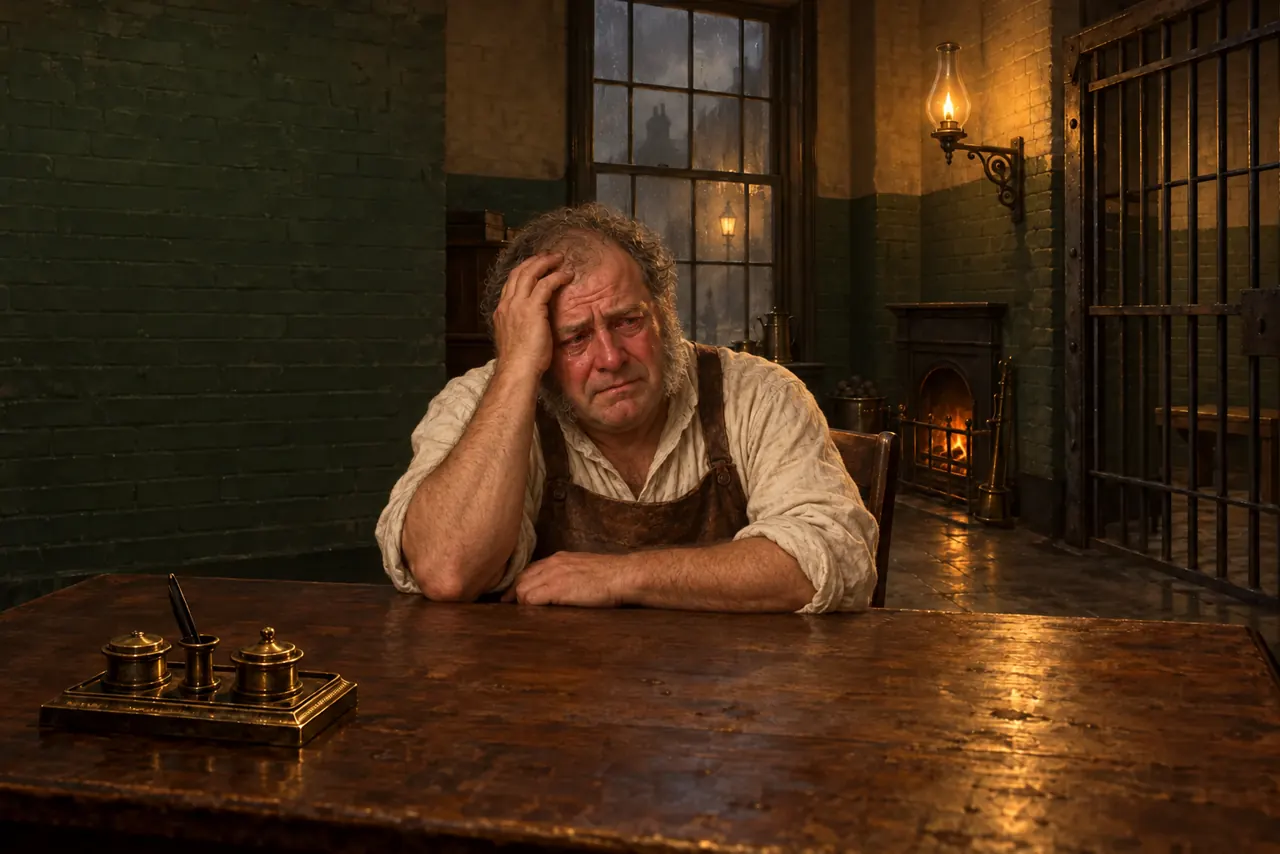
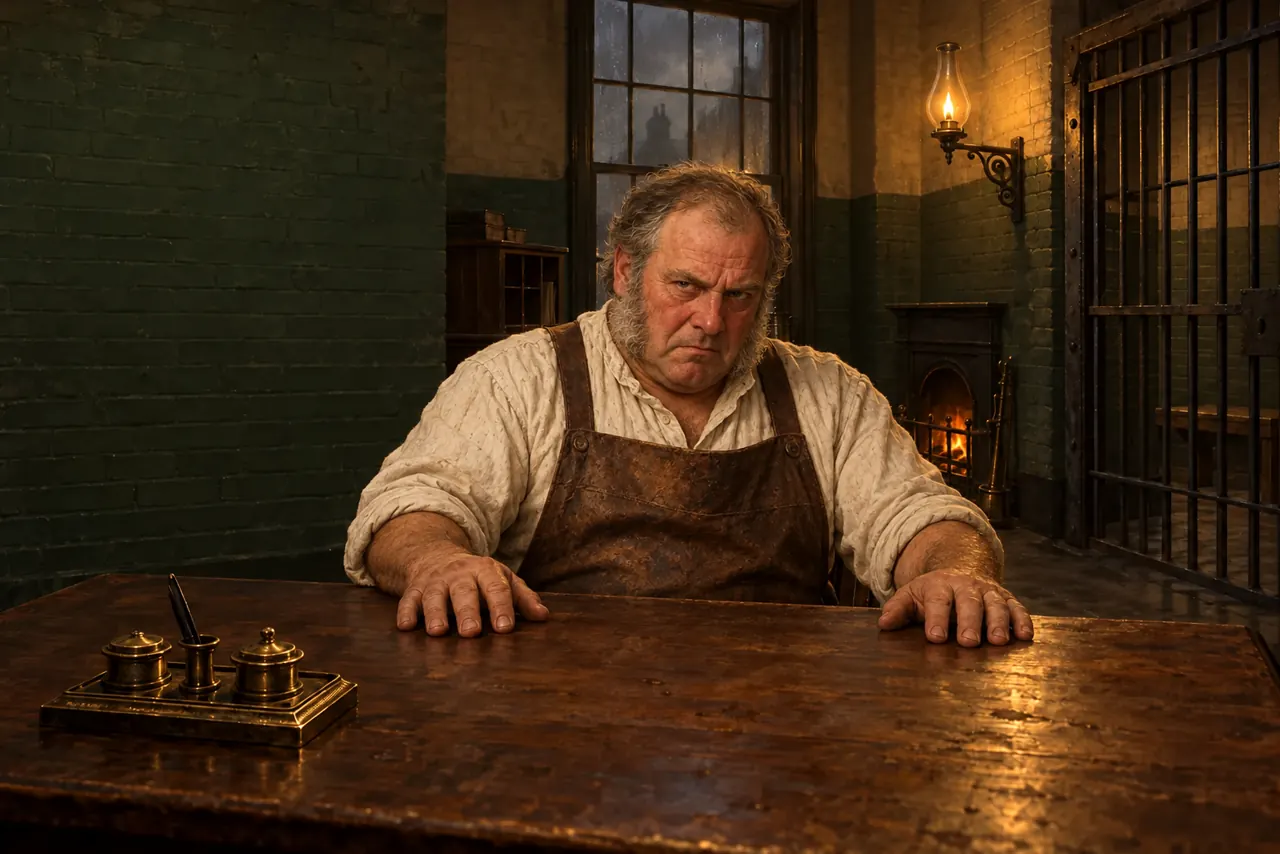
Face-to-face scenes for CASE 07, 08, 11, 13 and 15, and a new closing one for CASE 01: each pressed person reacts in their own way (the gang boss snarls, the dropper shrinks into his hood, the old woman clutches her collar) and at the close the culprit takes it in character (raging, bitter, numb or 

Changed region(s): [[0.25, 0.1827, 0.8125, 0.7916], [0.5312, 0.7611, 0.625, 0.8829], [0.2188, 0.7611, 0.2812, 0.8525]]

diff --git a/img/manifest.js b/img/manifest.js
@@ -54,7 +54,7 @@ window.MG.images = {
   "c01/roseletter": "img/c01/roseletter.webp?v=158b9a08",
   "c01/scene_p_bill_cold": "img/c01/scene_p_bill_cold.webp?v=607cfd61",
   "c01/scene_p_croft_cold": "img/c01/scene_p_croft_cold.webp?v=9494ea4b",
-  "c01/scene_p_croft_end": "img/c01/scene_p_croft_end.webp?v=084c8d85",
+  "c01/scene_p_croft_end": "img/c01/scene_p_croft_end.webp?v=a5c92824",
   "c01/scene_p_vane_flustered": "img/c01/scene_p_vane_flustered.webp?v=9e00a12f",
   "c01/sk_backroom": "img/c01/sk_backroom.webp?v=328a53e1",
   "c01/s_candle": "img/c01/s_candle.webp?v=1050b7ae",
@@ -241,6 +241,13 @@ window.MG.images = {
   "c07/photo_seat": "img/c07/photo_seat.webp?v=7c0efa95",
   "c07/ph_crown": "img/c07/ph_crown.webp?v=fefad029",
   "c07/scene_map": "img/c07/scene_map.webp?v=d8fdd396",
+  "c07/scene_p_mansik_afraid": "img/c07/scene_p_mansik_afraid.webp?v=59b18457",
+  "c07/scene_p_mansik_end": "img/c07/scene_p_mansik_end.webp?v=2f00febe",
+  "c07/scene_p_no_afraid": "img/c07/scene_p_no_afraid.webp?v=e5a7e5f5",
+  "c07/scene_p_operator_flustered": "img/c07/scene_p_operator_flustered.webp?v=784b2c33",
+  "c07/scene_p_seok_angry": "img/c07/scene_p_seok_angry.webp?v=d73c8b16",
+  "c07/scene_p_seok_end": "img/c07/scene_p_seok_end.webp?v=ab7510e0",
+  "c07/scene_p_wife_sad": "img/c07/scene_p_wife_sad.webp?v=19356c1b",
   "c07/seokcar": "img/c07/seokcar.webp?v=3946e54c",
   "c07/shop": "img/c07/shop.webp?v=ce3ae570",
   "c07/songwol_gate": "img/c07/songwol_gate.webp?v=ef7a8716",
@@ -274,6 +281,11 @@ window.MG.images = {
   "c08/ph_booth": "img/c08/ph_booth.webp?v=96efe2c8",
   "c08/rail": "img/c08/rail.webp?v=53811ffb",
   "c08/ransom_bag": "img/c08/ransom_bag.webp?v=5a18eea4",
+  "c08/scene_p_father_surprised": "img/c08/scene_p_father_surprised.webp?v=bba1834a",
+  "c08/scene_p_foreman_angry": "img/c08/scene_p_foreman_angry.webp?v=9807011b",
+  "c08/scene_p_tak_end": "img/c08/scene_p_tak_end.webp?v=54515c15",
+  "c08/scene_p_tak_flustered": "img/c08/scene_p_tak_flustered.webp?v=9975dccb",
+  "c08/scene_p_tutor_afraid": "img/c08/scene_p_tutor_afraid.webp?v=6fc8f481",
   "c08/sg_call": "img/c08/sg_call.webp?v=1fe3ff64",
   "c08/sg_han": "img/c08/sg_han.webp?v=bd87a20e",
   "c08/sg_jang": "img/c08/sg_jang.webp?v=b0d089e2",
@@ -373,6 +385,11 @@ window.MG.images = {
   "c11/ph_lumi": "img/c11/ph_lumi.webp?v=44e79122",
   "c11/ph_match": "img/c11/ph_match.webp?v=48c982f4",
   "c11/ph_print": "img/c11/ph_print.webp?v=caa2d57e",
+  "c11/scene_p_gil_afraid": "img/c11/scene_p_gil_afraid.webp?v=feee47db",
+  "c11/scene_p_ham_angry": "img/c11/scene_p_ham_angry.webp?v=e90221e8",
+  "c11/scene_p_ham_end": "img/c11/scene_p_ham_end.webp?v=79860833",
+  "c11/scene_p_jin_cold": "img/c11/scene_p_jin_cold.webp?v=1be66774",
+  "c11/scene_p_woo_sad": "img/c11/scene_p_woo_sad.webp?v=c5b16018",
   "c11/workshop_floor": "img/c11/workshop_floor.webp?v=d83f9785",
   "c12/bagsample": "img/c12/bagsample.webp?v=a0906bb7",
   "c12/bg_desk": "img/c12/bg_desk.webp?v=48d6acaf",
@@ -430,6 +447,12 @@ window.MG.images = {
   "c13/kick": "img/c13/kick.webp?v=02f09eea",
   "c13/locker": "img/c13/locker.webp?v=a06a2d94",
   "c13/room": "img/c13/room.webp?v=353632b7",
+  "c13/scene_p_jihan_sad": "img/c13/scene_p_jihan_sad.webp?v=d37511cf",
+  "c13/scene_p_kim_surprised": "img/c13/scene_p_kim_surprised.webp?v=e3262816",
+  "c13/scene_p_oh_end": "img/c13/scene_p_oh_end.webp?v=e8b76dcb",
+  "c13/scene_p_oh_flustered": "img/c13/scene_p_oh_flustered.webp?v=83fe61b4",
+  "c13/scene_p_woojin_afraid": "img/c13/scene_p_woojin_afraid.webp?v=fc876bc3",
+  "c13/scene_p_woojin_end": "img/c13/scene_p_woojin_end.webp?v=bf14da07",
   "c13/store": "img/c13/store.webp?v=bf00c96e",
   "c13/tablet": "img/c13/tablet.webp?v=ff90abbd",
   "c14/atm": "img/c14/atm.webp?v=759d1ad0",
@@ -479,6 +502,13 @@ window.MG.images = {
   "c15/libnote": "img/c15/libnote.webp?v=f6e87ea0",
   "c15/note_photo": "img/c15/note_photo.webp?v=1b936054",
   "c15/plate_photo": "img/c15/plate_photo.webp?v=8fe44a16",
+  "c15/scene_p_jisu_sad": "img/c15/scene_p_jisu_sad.webp?v=a68911a6",
+  "c15/scene_p_junhyuk_angry": "img/c15/scene_p_junhyuk_angry.webp?v=26ed97c4",
+  "c15/scene_p_junhyuk_end": "img/c15/scene_p_junhyuk_end.webp?v=1a9d8d27",
+  "c15/scene_p_landlord_flustered": "img/c15/scene_p_landlord_flustered.webp?v=5ef857b2",
+  "c15/scene_p_minjae_afraid": "img/c15/scene_p_minjae_afraid.webp?v=013a42d7",
+  "c15/scene_p_minjae_end": "img/c15/scene_p_minjae_end.webp?v=1118037f",
+  "c15/scene_p_woobin_afraid": "img/c15/scene_p_woobin_afraid.webp?v=c7628b4b",
   "c15/shoes": "img/c15/shoes.webp?v=bc38417a",
   "c15/tracker_photo": "img/c15/tracker_photo.webp?v=1ade62b9",
   "c15/watch_found": "img/c15/watch_found.webp?v=b5775078",
@@ -507,4 +537,4 @@ window.MG.images = {
   "_global/paper": "img/_global/paper.webp?v=da0f1de2",
   "_global/warn": "img/_global/warn.webp?v=1bc88cad"
 };
-window.MG.imageSize = {"c00/award":[1280,854],"c00/bg_desk":[1280,854],"c00/bg_room":[1280,854],"c00/booth":[1280,960],"c00/bridge":[1280,960],"c00/cake":[1280,854],"c00/cat":[1280,960],"c00/cover":[1280,960],"c00/cover_bg":[640,480],"c00/cover_s":[260,196],"c00/cup":[1280,854],"c00/desk":[1280,960],"c00/desk_snap":[1280,960],"c00/doorbag":[1280,960],"c00/face_p_dohyun":[1008,420],"c00/face_p_jaehee":[1008,1260],"c00/face_p_manager":[1008,420],"c00/face_p_minji":[1008,420],"c00/face_p_neighbor":[1008,420],"c00/psd_preview":[1200,840],"c00/scene_p_jaehee_end":[1280,854],"c00/scene_p_jaehee_flustered":[1280,854],"c00/sketch":[1280,854],"c01/bg_desk":[1280,854],"c01/bg_room":[1280,854],"c01/b_register":[1280,854],"c01/cover":[1280,960],"c01/cover_bg":[640,480],"c01/cover_s":[260,196],"c01/face_k_hollis":[1008,420],"c01/face_k_lamplighter":[1008,420],"c01/face_k_phipps":[1008,420],"c01/face_k_redman":[1008,420],"c01/face_k_scrivener":[1008,420],"c01/face_k_surgeon":[1008,420],"c01/face_p_bill":[1008,840],"c01/face_p_croft":[1008,1260],"c01/face_p_dill":[1008,420],"c01/face_p_hannah":[1008,420],"c01/face_p_peggy":[1008,420],"c01/face_p_quarrell":[1008,420],"c01/face_p_vane":[1008,840],"c01/l_letter":[1280,960],"c01/l_postcard":[1280,960],"c01/l_slip":[1280,854],"c01/map":[1280,1170],"c01/patrollog":[1280,960],"c01/q_lamp":[1280,854],"c01/q_thread":[1280,1072],"c01/roseletter":[1280,962],"c01/scene_p_bill_cold":[1280,854],"c01/scene_p_croft_cold":[1280,854],"c01/scene_p_croft_end":[1280,854],"c01/scene_p_vane_flustered":[1280,854],"c01/sk_backroom":[1280,854],"c01/s_candle":[1280,854],"c01/s_court":[1280,854],"c01/s_fundbox":[1280,854],"c01/s_patrol":[1280,854],"c01/s_sailor":[1280,854],"c01/s_tanners":[1280,854],"c02/attic":[1280,854],"c02/autopsy_table":[1280,960],"c02/barn_floor":[1280,960],"c02/bg_desk":[1280,854],"c02/bg_room":[1280,854],"c02/calendar":[1280,1170],"c02/cover":[1280,854],"c02/cover_bg":[640,428],"c02/cover_s":[260,174],"c02/face_k_brandl":[1008,420],"c02/face_k_hausierer":[1008,420],"c02/face_k_huber":[1008,420],"c02/face_k_neff":[1008,420],"c02/face_k_schwertfeger":[1008,420],"c02/face_p_gerstl":[1008,420],"c02/face_p_hubmann":[1008,420],"c02/face_p_knauer":[1008,1260],"c02/face_p_magdalena":[1008,420],"c02/face_p_pfaenzl":[1008,840],"c02/face_p_resl":[1008,420],"c02/face_p_rottmayr":[1008,420],"c02/farm":[1280,854],"c02/hausbuch":[1280,854],"c02/hut":[1280,854],"c02/kasten":[1280,1170],"c02/kitchen":[1128,854],"c02/lock":[1280,1072],"c02/mailbox":[1280,854],"c02/plan":[1280,854],"c02/sk_kitchen":[1280,854],"c02/sk_stall":[1280,854],"c02/sledge":[1280,406],"c02/stall":[1280,854],"c02/suitcase":[1280,960],"c03/bg_desk":[1280,854],"c03/bg_room":[1280,854],"c03/b_cafe":[1280,854],"c03/b_sewing":[1280,854],"c03/cover":[1280,1066],"c03/cover_bg":[640,534],"c03/cover_s":[260,216],"c03/face_k_jang":[1008,420],"c03/face_k_kim":[1008,420],"c03/face_k_midori":[1008,420],"c03/face_k_seobrother":[1008,420],"c03/face_k_yamashiro":[1008,420],"c03/face_p_baek":[1008,420],"c03/face_p_choi":[1008,420],"c03/face_p_gil":[1008,420],"c03/face_p_kwak":[1008,420],"c03/face_p_park":[1008,420],"c03/face_p_seo":[1008,1260],"c03/map":[1222,1288],"c03/n_boheol":[1280,1072],"c03/n_jodk":[1280,854],"c03/n_singer":[1280,1072],"c03/ph_anbang":[1280,854],"c03/p_radio":[1280,960],"c03/p_safe":[1280,1170],"c03/p_shop":[1280,854],"c03/p_well":[1280,854],"c04/bg_desk":[1280,854],"c04/bg_room":[1280,854],"c04/bike":[1280,854],"c04/bikephoto":[1280,800],"c04/boxes":[1280,960],"c04/coat":[1280,962],"c04/cover":[1280,854],"c04/cover_bg":[640,428],"c04/cover_s":[260,174],"c04/face_k_matsuo":[1008,420],"c04/face_k_nakai":[1008,420],"c04/face_k_tsuda":[1008,420],"c04/face_p_genzo":[1008,420],"c04/face_p_irie":[1008,1260],"c04/face_p_kitamura":[1008,840],"c04/face_p_okabe":[1008,840],"c04/face_p_ono":[1008,420],"c04/face_p_shimada":[1008,420],"c04/flare":[1280,960],"c04/kurotaki":[1280,854],"c04/l3_back":[1280,960],"c04/letter":[1280,854],"c04/map":[1280,854],"c04/matchbox":[1280,960],"c04/montage":[1030,1182],"c04/scene":[1280,720],"c04/siteboard":[1280,960],"c04/wind":[1280,960],"c05/bg_desk":[1280,854],"c05/bg_room":[1280,854],"c05/cedar":[1280,720],"c05/cedar_car":[1280,960],"c05/cipherimg":[1280,960],"c05/cover":[1280,960],"c05/cover_bg":[640,480],"c05/cover_s":[260,196],"c05/depot":[1280,720],"c05/env_four":[1280,854],"c05/env_ref":[1280,854],"c05/env_sheriff":[1280,720],"c05/env_star":[1280,854],"c05/env_typed":[1280,854],"c05/face_k_stone":[1008,420],"c05/face_p_brennan":[1008,1260],"c05/face_p_coyle":[1008,420],"c05/face_p_delgado":[1008,420],"c05/face_p_dugan":[1008,420],"c05/face_p_lowell":[1008,420],"c05/face_p_osgood":[1008,420],"c05/face_p_pell":[1008,840],"c05/letter1":[1280,854],"c05/lighthouse":[1280,720],"c05/masonhill":[1280,720],"c05/mh_car":[1280,960],"c05/payphone":[1086,1448],"c05/ph_haley":[1280,854],"c05/sketch":[1086,1448],"c05/truck":[1280,720],"c05/typed":[1280,960],"c06/autopsy_sheet":[1280,958],"c06/autopsy_sheet_mild":[1280,958],"c06/bags_table":[1280,854],"c06/bg_desk":[1280,854],"c06/bg_room":[1280,854],"c06/cover":[1280,854],"c06/cover_bg":[640,428],"c06/cover_s":[260,174],"c06/face_k_halvorsen":[1008,420],"c06/face_k_ingrid":[1008,420],"c06/face_k_lie":[1008,420],"c06/face_p_brate":[1008,1260],"c06/face_p_kari":[1008,420],"c06/face_p_per":[1008,420],"c06/face_p_randi":[1008,420],"c06/face_p_remmert":[1008,840],"c06/face_p_solveig":[1008,420],"c06/face_p_taxi":[1008,420],"c06/fuel":[1280,854],"c06/harbor":[1280,854],"c06/hytte":[1280,854],"c06/regcard":[1280,960],"c06/scene_hollow":[1280,960],"c06/scene_hollow_mild":[1280,960],"c06/ship":[1280,854],"c06/station":[1280,854],"c06/stern":[1280,854],"c06/suitcases":[1280,498],"c06/thermos":[1280,854],"c06/touristmap":[1280,960],"c06/valley":[1280,960],"c07/bg_desk":[1280,854],"c07/bg_room":[1280,854],"c07/cover":[1280,854],"c07/cover_bg":[640,428],"c07/cover_s":[260,174],"c07/face_k_dongjin":[1008,420],"c07/face_k_geumseong":[1008,420],"c07/face_k_gu":[1008,420],"c07/face_k_gwak":[1008,420],"c07/face_k_hoejang":[1008,420],"c07/face_k_reporter":[1008,420],"c07/face_k_songhak":[1008,420],"c07/face_p_granny":[1008,420],"c07/face_p_madam":[1008,420],"c07/face_p_mansik":[1008,840],"c07/face_p_no":[1008,840],"c07/face_p_operator":[1008,420],"c07/face_p_seok":[1008,1260],"c07/face_p_wife":[1008,840],"c07/handbag":[1280,960],"c07/house":[1280,960],"c07/ledger_page":[1280,960],"c07/news_car":[1280,854],"c07/photo_car":[1280,960],"c07/photo_seat":[1280,854],"c07/ph_crown":[1280,854],"c07/scene_map":[1280,854],"c07/seokcar":[1280,854],"c07/shop":[1280,854],"c07/songwol_gate":[1280,854],"c07/switchboard":[1280,960],"c07/tv":[1254,1254],"c08/bg_desk":[1280,854],"c08/bg_room":[1280,854],"c08/booth":[1280,854],"c08/church":[1086,1448],"c08/cover":[1280,854],"c08/cover_bg":[640,428],"c08/cover_s":[260,174],"c08/face_k_clerk":[1008,420],"c08/face_k_friend":[1008,420],"c08/face_k_soyoung":[1008,420],"c08/face_k_yeo":[1008,420],"c08/face_p_driver":[1008,420],"c08/face_p_father":[1008,420],"c08/face_p_foreman":[1008,840],"c08/face_p_mother":[1008,420],"c08/face_p_shop":[1008,420],"c08/face_p_tak":[1008,1260],"c08/face_p_tutor":[1008,840],"c08/flyer":[1280,854],"c08/keys":[1280,960],"c08/map":[1280,854],"c08/montage":[1086,1448],"c08/montage_print":[1086,1448],"c08/news_site":[1280,960],"c08/note_paper":[1280,854],"c08/ph_booth":[1280,854],"c08/rail":[1280,854],"c08/ransom_bag":[1280,854],"c08/sg_call":[1200,576],"c08/sg_han":[1200,576],"c08/sg_jang":[1200,576],"c08/sg_tak":[1200,576],"c08/sg_yeom":[1200,576],"c08/shop_ledger":[1280,960],"c08/solmaru":[1280,960],"c08/warehouse":[1280,960],"c09/bg_desk":[1280,854],"c09/bg_room":[1280,854],"c09/busstop":[1280,854],"c09/cctv":[1056,720],"c09/courier_room":[1280,854],"c09/cover":[1280,960],"c09/cover_bg":[640,480],"c09/cover_s":[260,196],"c09/door":[1280,960],"c09/face_k_byun":[1008,420],"c09/face_k_choi":[1008,420],"c09/face_k_moon":[1008,420],"c09/face_p_courier":[1008,840],"c09/face_p_eunbi":[1008,420],"c09/face_p_jinwoo":[1008,420],"c09/face_p_realtor":[1008,420],"c09/face_p_sora":[1008,420],"c09/face_p_tak":[1008,1260],"c09/frames":[1280,960],"c09/haeun_photo":[1280,854],"c09/house204":[1280,960],"c09/house217":[1280,960],"c09/house219":[1280,854],"c09/house226":[1280,854],"c09/house230":[1280,960],"c09/map":[1280,854],"c09/mt_photo":[1280,854],"c09/ph217":[1280,960],"c09/ph219":[1280,960],"c09/pyogu":[1280,960],"c09/roof":[1280,854],"c09/sora_photo":[1280,960],"c10/bg_desk":[1280,854],"c10/bg_room":[1280,854],"c10/cam_a":[1280,854],"c10/cam_b":[1280,720],"c10/cam_pier":[1280,960],"c10/cam_store":[1280,960],"c10/cam_taxi":[1280,720],"c10/cap":[1280,960],"c10/cover":[1280,854],"c10/cover_bg":[640,428],"c10/cover_s":[260,174],"c10/crates":[1280,960],"c10/face_k_jeong":[1008,420],"c10/face_p_bang":[1008,1260],"c10/face_p_guard":[1008,420],"c10/face_p_miran":[1008,420],"c10/face_p_myeongsu":[1008,840],"c10/face_p_okja":[1008,420],"c10/face_p_sangmin":[1008,420],"c10/gate_cam":[1280,960],"c10/hoesik":[1280,960],"c10/pier_day":[1280,960],"c11/autopsy_room":[1280,854],"c11/bg_desk":[1280,854],"c11/bg_room":[1280,854],"c11/bus":[1280,854],"c11/butcher_floor":[1280,854],"c11/butcher_lumi":[1280,854],"c11/cover":[1280,960],"c11/cover_bg":[640,480],"c11/cover_s":[260,196],"c11/cut_a":[1280,854],"c11/cut_b":[1280,854],"c11/cut_c":[1280,854],"c11/cut_d":[1280,854],"c11/cut_ev":[1280,854],"c11/face_k_so":[1008,420],"c11/face_p_gil":[1008,840],"c11/face_p_ham":[1008,1260],"c11/face_p_han":[1008,420],"c11/face_p_jin":[1008,840],"c11/face_p_park":[1008,420],"c11/face_p_woo":[1008,840],"c11/face_p_yeom":[1008,420],"c11/gauge":[1280,854],"c11/items_table":[1280,854],"c11/knot_ev":[1280,960],"c11/ledger_page":[1280,854],"c11/news_bridge":[1280,854],"c11/news_divers":[1280,960],"c11/news_reeds":[1280,854],"c11/news_shop":[1280,854],"c11/news_workshop":[1280,854],"c11/nfs_nacre":[1280,960],"c11/occ_reeds":[1280,854],"c11/photo_sack":[1280,960],"c11/ph_lumi":[1280,854],"c11/ph_match":[1280,854],"c11/ph_print":[1280,854],"c11/workshop_floor":[1280,854],"c12/bagsample":[1280,854],"c12/bg_desk":[1280,854],"c12/bg_room":[1280,854],"c12/boiler":[1280,960],"c12/butcher":[1280,854],"c12/cleancart":[1280,1024],"c12/cover":[1280,854],"c12/cover_bg":[640,428],"c12/cover_s":[260,174],"c12/dengon":[1280,854],"c12/face_k_noda":[1008,420],"c12/face_p_ishiguro":[1008,420],"c12/face_p_kimura":[1008,420],"c12/face_p_murakoshi":[1008,840],"c12/face_p_ogawa":[1008,420],"c12/face_p_paperboy":[1008,420],"c12/face_p_shinji":[1008,1260],"c12/face_p_takano":[1008,420],"c12/face_p_toshie":[1008,420],"c12/jiage":[1280,960],"c12/knot_bag":[1280,960],"c12/luminol":[1280,960],"c12/n_park":[1280,854],"c12/pinkphone":[1024,1536],"c12/room":[1095,1072],"c12/saw_cast":[1280,960],"c12/scene_bin":[1280,854],"c12/sento":[1024,1536],"c12/sk_east":[1280,854],"c12/sk_lum":[1280,854],"c12/sk_sento":[1280,854],"c12/store":[1280,854],"c12/trap":[1280,854],"c12/videocard":[1280,854],"c12/wp":[1280,960],"c13/alley_day":[1280,960],"c13/bg_desk":[1280,854],"c13/bg_room":[1280,854],"c13/bread":[1280,960],"c13/cctv_drop":[1280,720],"c13/cctv_pick":[1280,720],"c13/counter":[1280,854],"c13/cover":[1280,960],"c13/cover_bg":[640,480],"c13/cover_s":[260,196],"c13/door":[1280,960],"c13/drop":[1280,960],"c13/drop_1006":[1280,960],"c13/face_p_choi":[1008,420],"c13/face_p_jihan":[1008,840],"c13/face_p_kim":[1008,420],"c13/face_p_oh":[1008,1260],"c13/face_p_woojin":[1008,840],"c13/kick":[1280,960],"c13/locker":[1280,960],"c13/room":[1280,854],"c13/store":[1280,960],"c13/tablet":[1280,960],"c14/atm":[888,960],"c14/bankbook":[1280,960],"c14/bg_desk":[1280,854],"c14/bg_room":[1280,854],"c14/calendar":[1280,960],"c14/cover":[1280,960],"c14/cover_bg":[640,480],"c14/cover_s":[260,196],"c14/face_k_hyunsu":[1008,420],"c14/face_p_changhoon":[1008,420],"c14/face_p_eunju":[1008,420],"c14/face_p_jeongrye":[1008,420],"c14/face_p_oksun":[1008,420],"c14/face_p_seok":[1008,1260],"c14/face_p_siwoo":[1008,840],"c14/face_p_taeo":[1008,840],"c14/fakedoc":[1280,960],"c14/lock":[1280,960],"c14/market":[1280,960],"c14/oksun":[1280,960],"c14/park":[1280,720],"c14/scooter":[1280,960],"c14/sk_door":[1280,854],"c14/sk_locker":[1280,854],"c14/stakeout":[1280,720],"c15/bg_desk":[1280,854],"c15/bg_room":[1280,854],"c15/carlot":[1280,854],"c15/carlot_2154":[1280,854],"c15/carwash":[1280,720],"c15/cctv_lane":[1280,960],"c15/cover":[1280,960],"c15/cover_bg":[640,480],"c15/cover_s":[260,196],"c15/elev_cam":[1280,960],"c15/face_k_eunbi":[1008,420],"c15/face_p_harin":[1008,420],"c15/face_p_jisu":[1008,420],"c15/face_p_junhyuk":[1008,840],"c15/face_p_landlord":[1008,840],"c15/face_p_minjae":[1008,1260],"c15/face_p_woobin":[1008,840],"c15/futsal":[1280,960],"c15/helmet_cam":[1280,720],"c15/libnote":[1280,960],"c15/note_photo":[1280,960],"c15/plate_photo":[1280,960],"c15/shoes":[1280,960],"c15/tracker_photo":[1280,960],"c15/watch_found":[1280,960],"_desk/ashtray":[600,594],"_desk/cassette":[600,400],"_desk/clips":[600,616],"_desk/energy":[600,600],"_desk/evidencebag":[600,900],"_desk/flipphone":[600,970],"_desk/glasses":[600,208],"_desk/inkpen":[600,588],"_desk/lanyard":[600,600],"_desk/magnifier":[600,602],"_desk/matchbox":[600,552],"_desk/mug":[600,488],"_desk/pager":[600,560],"_desk/pencil":[600,70],"_desk/pocketwatch":[600,588],"_desk/radio":[600,900],"_desk/smartphone":[600,1096],"_desk/stamp":[600,548],"_desk/takeaway":[600,706],"_desk/teacup":[600,602],"_global/desk":[1024,1024],"_global/hero":[1672,942],"_global/paper":[1024,1024],"_global/warn":[600,200]};
+window.MG.imageSize = {"c00/award":[1280,854],"c00/bg_desk":[1280,854],"c00/bg_room":[1280,854],"c00/booth":[1280,960],"c00/bridge":[1280,960],"c00/cake":[1280,854],"c00/cat":[1280,960],"c00/cover":[1280,960],"c00/cover_bg":[640,480],"c00/cover_s":[260,196],"c00/cup":[1280,854],"c00/desk":[1280,960],"c00/desk_snap":[1280,960],"c00/doorbag":[1280,960],"c00/face_p_dohyun":[1008,420],"c00/face_p_jaehee":[1008,1260],"c00/face_p_manager":[1008,420],"c00/face_p_minji":[1008,420],"c00/face_p_neighbor":[1008,420],"c00/psd_preview":[1200,840],"c00/scene_p_jaehee_end":[1280,854],"c00/scene_p_jaehee_flustered":[1280,854],"c00/sketch":[1280,854],"c01/bg_desk":[1280,854],"c01/bg_room":[1280,854],"c01/b_register":[1280,854],"c01/cover":[1280,960],"c01/cover_bg":[640,480],"c01/cover_s":[260,196],"c01/face_k_hollis":[1008,420],"c01/face_k_lamplighter":[1008,420],"c01/face_k_phipps":[1008,420],"c01/face_k_redman":[1008,420],"c01/face_k_scrivener":[1008,420],"c01/face_k_surgeon":[1008,420],"c01/face_p_bill":[1008,840],"c01/face_p_croft":[1008,1260],"c01/face_p_dill":[1008,420],"c01/face_p_hannah":[1008,420],"c01/face_p_peggy":[1008,420],"c01/face_p_quarrell":[1008,420],"c01/face_p_vane":[1008,840],"c01/l_letter":[1280,960],"c01/l_postcard":[1280,960],"c01/l_slip":[1280,854],"c01/map":[1280,1170],"c01/patrollog":[1280,960],"c01/q_lamp":[1280,854],"c01/q_thread":[1280,1072],"c01/roseletter":[1280,962],"c01/scene_p_bill_cold":[1280,854],"c01/scene_p_croft_cold":[1280,854],"c01/scene_p_croft_end":[1280,854],"c01/scene_p_vane_flustered":[1280,854],"c01/sk_backroom":[1280,854],"c01/s_candle":[1280,854],"c01/s_court":[1280,854],"c01/s_fundbox":[1280,854],"c01/s_patrol":[1280,854],"c01/s_sailor":[1280,854],"c01/s_tanners":[1280,854],"c02/attic":[1280,854],"c02/autopsy_table":[1280,960],"c02/barn_floor":[1280,960],"c02/bg_desk":[1280,854],"c02/bg_room":[1280,854],"c02/calendar":[1280,1170],"c02/cover":[1280,854],"c02/cover_bg":[640,428],"c02/cover_s":[260,174],"c02/face_k_brandl":[1008,420],"c02/face_k_hausierer":[1008,420],"c02/face_k_huber":[1008,420],"c02/face_k_neff":[1008,420],"c02/face_k_schwertfeger":[1008,420],"c02/face_p_gerstl":[1008,420],"c02/face_p_hubmann":[1008,420],"c02/face_p_knauer":[1008,1260],"c02/face_p_magdalena":[1008,420],"c02/face_p_pfaenzl":[1008,840],"c02/face_p_resl":[1008,420],"c02/face_p_rottmayr":[1008,420],"c02/farm":[1280,854],"c02/hausbuch":[1280,854],"c02/hut":[1280,854],"c02/kasten":[1280,1170],"c02/kitchen":[1128,854],"c02/lock":[1280,1072],"c02/mailbox":[1280,854],"c02/plan":[1280,854],"c02/sk_kitchen":[1280,854],"c02/sk_stall":[1280,854],"c02/sledge":[1280,406],"c02/stall":[1280,854],"c02/suitcase":[1280,960],"c03/bg_desk":[1280,854],"c03/bg_room":[1280,854],"c03/b_cafe":[1280,854],"c03/b_sewing":[1280,854],"c03/cover":[1280,1066],"c03/cover_bg":[640,534],"c03/cover_s":[260,216],"c03/face_k_jang":[1008,420],"c03/face_k_kim":[1008,420],"c03/face_k_midori":[1008,420],"c03/face_k_seobrother":[1008,420],"c03/face_k_yamashiro":[1008,420],"c03/face_p_baek":[1008,420],"c03/face_p_choi":[1008,420],"c03/face_p_gil":[1008,420],"c03/face_p_kwak":[1008,420],"c03/face_p_park":[1008,420],"c03/face_p_seo":[1008,1260],"c03/map":[1222,1288],"c03/n_boheol":[1280,1072],"c03/n_jodk":[1280,854],"c03/n_singer":[1280,1072],"c03/ph_anbang":[1280,854],"c03/p_radio":[1280,960],"c03/p_safe":[1280,1170],"c03/p_shop":[1280,854],"c03/p_well":[1280,854],"c04/bg_desk":[1280,854],"c04/bg_room":[1280,854],"c04/bike":[1280,854],"c04/bikephoto":[1280,800],"c04/boxes":[1280,960],"c04/coat":[1280,962],"c04/cover":[1280,854],"c04/cover_bg":[640,428],"c04/cover_s":[260,174],"c04/face_k_matsuo":[1008,420],"c04/face_k_nakai":[1008,420],"c04/face_k_tsuda":[1008,420],"c04/face_p_genzo":[1008,420],"c04/face_p_irie":[1008,1260],"c04/face_p_kitamura":[1008,840],"c04/face_p_okabe":[1008,840],"c04/face_p_ono":[1008,420],"c04/face_p_shimada":[1008,420],"c04/flare":[1280,960],"c04/kurotaki":[1280,854],"c04/l3_back":[1280,960],"c04/letter":[1280,854],"c04/map":[1280,854],"c04/matchbox":[1280,960],"c04/montage":[1030,1182],"c04/scene":[1280,720],"c04/siteboard":[1280,960],"c04/wind":[1280,960],"c05/bg_desk":[1280,854],"c05/bg_room":[1280,854],"c05/cedar":[1280,720],"c05/cedar_car":[1280,960],"c05/cipherimg":[1280,960],"c05/cover":[1280,960],"c05/cover_bg":[640,480],"c05/cover_s":[260,196],"c05/depot":[1280,720],"c05/env_four":[1280,854],"c05/env_ref":[1280,854],"c05/env_sheriff":[1280,720],"c05/env_star":[1280,854],"c05/env_typed":[1280,854],"c05/face_k_stone":[1008,420],"c05/face_p_brennan":[1008,1260],"c05/face_p_coyle":[1008,420],"c05/face_p_delgado":[1008,420],"c05/face_p_dugan":[1008,420],"c05/face_p_lowell":[1008,420],"c05/face_p_osgood":[1008,420],"c05/face_p_pell":[1008,840],"c05/letter1":[1280,854],"c05/lighthouse":[1280,720],"c05/masonhill":[1280,720],"c05/mh_car":[1280,960],"c05/payphone":[1086,1448],"c05/ph_haley":[1280,854],"c05/sketch":[1086,1448],"c05/truck":[1280,720],"c05/typed":[1280,960],"c06/autopsy_sheet":[1280,958],"c06/autopsy_sheet_mild":[1280,958],"c06/bags_table":[1280,854],"c06/bg_desk":[1280,854],"c06/bg_room":[1280,854],"c06/cover":[1280,854],"c06/cover_bg":[640,428],"c06/cover_s":[260,174],"c06/face_k_halvorsen":[1008,420],"c06/face_k_ingrid":[1008,420],"c06/face_k_lie":[1008,420],"c06/face_p_brate":[1008,1260],"c06/face_p_kari":[1008,420],"c06/face_p_per":[1008,420],"c06/face_p_randi":[1008,420],"c06/face_p_remmert":[1008,840],"c06/face_p_solveig":[1008,420],"c06/face_p_taxi":[1008,420],"c06/fuel":[1280,854],"c06/harbor":[1280,854],"c06/hytte":[1280,854],"c06/regcard":[1280,960],"c06/scene_hollow":[1280,960],"c06/scene_hollow_mild":[1280,960],"c06/ship":[1280,854],"c06/station":[1280,854],"c06/stern":[1280,854],"c06/suitcases":[1280,498],"c06/thermos":[1280,854],"c06/touristmap":[1280,960],"c06/valley":[1280,960],"c07/bg_desk":[1280,854],"c07/bg_room":[1280,854],"c07/cover":[1280,854],"c07/cover_bg":[640,428],"c07/cover_s":[260,174],"c07/face_k_dongjin":[1008,420],"c07/face_k_geumseong":[1008,420],"c07/face_k_gu":[1008,420],"c07/face_k_gwak":[1008,420],"c07/face_k_hoejang":[1008,420],"c07/face_k_reporter":[1008,420],"c07/face_k_songhak":[1008,420],"c07/face_p_granny":[1008,420],"c07/face_p_madam":[1008,420],"c07/face_p_mansik":[1008,840],"c07/face_p_no":[1008,840],"c07/face_p_operator":[1008,420],"c07/face_p_seok":[1008,1260],"c07/face_p_wife":[1008,840],"c07/handbag":[1280,960],"c07/house":[1280,960],"c07/ledger_page":[1280,960],"c07/news_car":[1280,854],"c07/photo_car":[1280,960],"c07/photo_seat":[1280,854],"c07/ph_crown":[1280,854],"c07/scene_map":[1280,854],"c07/scene_p_mansik_afraid":[1280,854],"c07/scene_p_mansik_end":[1280,854],"c07/scene_p_no_afraid":[1280,854],"c07/scene_p_operator_flustered":[1280,854],"c07/scene_p_seok_angry":[1280,854],"c07/scene_p_seok_end":[1280,854],"c07/scene_p_wife_sad":[1280,854],"c07/seokcar":[1280,854],"c07/shop":[1280,854],"c07/songwol_gate":[1280,854],"c07/switchboard":[1280,960],"c07/tv":[1254,1254],"c08/bg_desk":[1280,854],"c08/bg_room":[1280,854],"c08/booth":[1280,854],"c08/church":[1086,1448],"c08/cover":[1280,854],"c08/cover_bg":[640,428],"c08/cover_s":[260,174],"c08/face_k_clerk":[1008,420],"c08/face_k_friend":[1008,420],"c08/face_k_soyoung":[1008,420],"c08/face_k_yeo":[1008,420],"c08/face_p_driver":[1008,420],"c08/face_p_father":[1008,420],"c08/face_p_foreman":[1008,840],"c08/face_p_mother":[1008,420],"c08/face_p_shop":[1008,420],"c08/face_p_tak":[1008,1260],"c08/face_p_tutor":[1008,840],"c08/flyer":[1280,854],"c08/keys":[1280,960],"c08/map":[1280,854],"c08/montage":[1086,1448],"c08/montage_print":[1086,1448],"c08/news_site":[1280,960],"c08/note_paper":[1280,854],"c08/ph_booth":[1280,854],"c08/rail":[1280,854],"c08/ransom_bag":[1280,854],"c08/scene_p_father_surprised":[1280,854],"c08/scene_p_foreman_angry":[1280,854],"c08/scene_p_tak_end":[1280,854],"c08/scene_p_tak_flustered":[1280,854],"c08/scene_p_tutor_afraid":[1280,854],"c08/sg_call":[1200,576],"c08/sg_han":[1200,576],"c08/sg_jang":[1200,576],"c08/sg_tak":[1200,576],"c08/sg_yeom":[1200,576],"c08/shop_ledger":[1280,960],"c08/solmaru":[1280,960],"c08/warehouse":[1280,960],"c09/bg_desk":[1280,854],"c09/bg_room":[1280,854],"c09/busstop":[1280,854],"c09/cctv":[1056,720],"c09/courier_room":[1280,854],"c09/cover":[1280,960],"c09/cover_bg":[640,480],"c09/cover_s":[260,196],"c09/door":[1280,960],"c09/face_k_byun":[1008,420],"c09/face_k_choi":[1008,420],"c09/face_k_moon":[1008,420],"c09/face_p_courier":[1008,840],"c09/face_p_eunbi":[1008,420],"c09/face_p_jinwoo":[1008,420],"c09/face_p_realtor":[1008,420],"c09/face_p_sora":[1008,420],"c09/face_p_tak":[1008,1260],"c09/frames":[1280,960],"c09/haeun_photo":[1280,854],"c09/house204":[1280,960],"c09/house217":[1280,960],"c09/house219":[1280,854],"c09/house226":[1280,854],"c09/house230":[1280,960],"c09/map":[1280,854],"c09/mt_photo":[1280,854],"c09/ph217":[1280,960],"c09/ph219":[1280,960],"c09/pyogu":[1280,960],"c09/roof":[1280,854],"c09/sora_photo":[1280,960],"c10/bg_desk":[1280,854],"c10/bg_room":[1280,854],"c10/cam_a":[1280,854],"c10/cam_b":[1280,720],"c10/cam_pier":[1280,960],"c10/cam_store":[1280,960],"c10/cam_taxi":[1280,720],"c10/cap":[1280,960],"c10/cover":[1280,854],"c10/cover_bg":[640,428],"c10/cover_s":[260,174],"c10/crates":[1280,960],"c10/face_k_jeong":[1008,420],"c10/face_p_bang":[1008,1260],"c10/face_p_guard":[1008,420],"c10/face_p_miran":[1008,420],"c10/face_p_myeongsu":[1008,840],"c10/face_p_okja":[1008,420],"c10/face_p_sangmin":[1008,420],"c10/gate_cam":[1280,960],"c10/hoesik":[1280,960],"c10/pier_day":[1280,960],"c11/autopsy_room":[1280,854],"c11/bg_desk":[1280,854],"c11/bg_room":[1280,854],"c11/bus":[1280,854],"c11/butcher_floor":[1280,854],"c11/butcher_lumi":[1280,854],"c11/cover":[1280,960],"c11/cover_bg":[640,480],"c11/cover_s":[260,196],"c11/cut_a":[1280,854],"c11/cut_b":[1280,854],"c11/cut_c":[1280,854],"c11/cut_d":[1280,854],"c11/cut_ev":[1280,854],"c11/face_k_so":[1008,420],"c11/face_p_gil":[1008,840],"c11/face_p_ham":[1008,1260],"c11/face_p_han":[1008,420],"c11/face_p_jin":[1008,840],"c11/face_p_park":[1008,420],"c11/face_p_woo":[1008,840],"c11/face_p_yeom":[1008,420],"c11/gauge":[1280,854],"c11/items_table":[1280,854],"c11/knot_ev":[1280,960],"c11/ledger_page":[1280,854],"c11/news_bridge":[1280,854],"c11/news_divers":[1280,960],"c11/news_reeds":[1280,854],"c11/news_shop":[1280,854],"c11/news_workshop":[1280,854],"c11/nfs_nacre":[1280,960],"c11/occ_reeds":[1280,854],"c11/photo_sack":[1280,960],"c11/ph_lumi":[1280,854],"c11/ph_match":[1280,854],"c11/ph_print":[1280,854],"c11/scene_p_gil_afraid":[1280,854],"c11/scene_p_ham_angry":[1280,854],"c11/scene_p_ham_end":[1280,854],"c11/scene_p_jin_cold":[1280,854],"c11/scene_p_woo_sad":[1280,854],"c11/workshop_floor":[1280,854],"c12/bagsample":[1280,854],"c12/bg_desk":[1280,854],"c12/bg_room":[1280,854],"c12/boiler":[1280,960],"c12/butcher":[1280,854],"c12/cleancart":[1280,1024],"c12/cover":[1280,854],"c12/cover_bg":[640,428],"c12/cover_s":[260,174],"c12/dengon":[1280,854],"c12/face_k_noda":[1008,420],"c12/face_p_ishiguro":[1008,420],"c12/face_p_kimura":[1008,420],"c12/face_p_murakoshi":[1008,840],"c12/face_p_ogawa":[1008,420],"c12/face_p_paperboy":[1008,420],"c12/face_p_shinji":[1008,1260],"c12/face_p_takano":[1008,420],"c12/face_p_toshie":[1008,420],"c12/jiage":[1280,960],"c12/knot_bag":[1280,960],"c12/luminol":[1280,960],"c12/n_park":[1280,854],"c12/pinkphone":[1024,1536],"c12/room":[1095,1072],"c12/saw_cast":[1280,960],"c12/scene_bin":[1280,854],"c12/sento":[1024,1536],"c12/sk_east":[1280,854],"c12/sk_lum":[1280,854],"c12/sk_sento":[1280,854],"c12/store":[1280,854],"c12/trap":[1280,854],"c12/videocard":[1280,854],"c12/wp":[1280,960],"c13/alley_day":[1280,960],"c13/bg_desk":[1280,854],"c13/bg_room":[1280,854],"c13/bread":[1280,960],"c13/cctv_drop":[1280,720],"c13/cctv_pick":[1280,720],"c13/counter":[1280,854],"c13/cover":[1280,960],"c13/cover_bg":[640,480],"c13/cover_s":[260,196],"c13/door":[1280,960],"c13/drop":[1280,960],"c13/drop_1006":[1280,960],"c13/face_p_choi":[1008,420],"c13/face_p_jihan":[1008,840],"c13/face_p_kim":[1008,420],"c13/face_p_oh":[1008,1260],"c13/face_p_woojin":[1008,840],"c13/kick":[1280,960],"c13/locker":[1280,960],"c13/room":[1280,854],"c13/scene_p_jihan_sad":[1280,854],"c13/scene_p_kim_surprised":[1280,854],"c13/scene_p_oh_end":[1280,854],"c13/scene_p_oh_flustered":[1280,854],"c13/scene_p_woojin_afraid":[1280,854],"c13/scene_p_woojin_end":[1280,854],"c13/store":[1280,960],"c13/tablet":[1280,960],"c14/atm":[888,960],"c14/bankbook":[1280,960],"c14/bg_desk":[1280,854],"c14/bg_room":[1280,854],"c14/calendar":[1280,960],"c14/cover":[1280,960],"c14/cover_bg":[640,480],"c14/cover_s":[260,196],"c14/face_k_hyunsu":[1008,420],"c14/face_p_changhoon":[1008,420],"c14/face_p_eunju":[1008,420],"c14/face_p_jeongrye":[1008,420],"c14/face_p_oksun":[1008,420],"c14/face_p_seok":[1008,1260],"c14/face_p_siwoo":[1008,840],"c14/face_p_taeo":[1008,840],"c14/fakedoc":[1280,960],"c14/lock":[1280,960],"c14/market":[1280,960],"c14/oksun":[1280,960],"c14/park":[1280,720],"c14/scooter":[1280,960],"c14/sk_door":[1280,854],"c14/sk_locker":[1280,854],"c14/stakeout":[1280,720],"c15/bg_desk":[1280,854],"c15/bg_room":[1280,854],"c15/carlot":[1280,854],"c15/carlot_2154":[1280,854],"c15/carwash":[1280,720],"c15/cctv_lane":[1280,960],"c15/cover":[1280,960],"c15/cover_bg":[640,480],"c15/cover_s":[260,196],"c15/elev_cam":[1280,960],"c15/face_k_eunbi":[1008,420],"c15/face_p_harin":[1008,420],"c15/face_p_jisu":[1008,420],"c15/face_p_junhyuk":[1008,840],"c15/face_p_landlord":[1008,840],"c15/face_p_minjae":[1008,1260],"c15/face_p_woobin":[1008,840],"c15/futsal":[1280,960],"c15/helmet_cam":[1280,720],"c15/libnote":[1280,960],"c15/note_photo":[1280,960],"c15/plate_photo":[1280,960],"c15/scene_p_jisu_sad":[1280,854],"c15/scene_p_junhyuk_angry":[1280,854],"c15/scene_p_junhyuk_end":[1280,854],"c15/scene_p_landlord_flustered":[1280,854],"c15/scene_p_minjae_afraid":[1280,854],"c15/scene_p_minjae_end":[1280,854],"c15/scene_p_woobin_afraid":[1280,854],"c15/shoes":[1280,960],"c15/tracker_photo":[1280,960],"c15/watch_found":[1280,960],"_desk/ashtray":[600,594],"_desk/cassette":[600,400],"_desk/clips":[600,616],"_desk/energy":[600,600],"_desk/evidencebag":[600,900],"_desk/flipphone":[600,970],"_desk/glasses":[600,208],"_desk/inkpen":[600,588],"_desk/lanyard":[600,600],"_desk/magnifier":[600,602],"_desk/matchbox":[600,552],"_desk/mug":[600,488],"_desk/pager":[600,560],"_desk/pencil":[600,70],"_desk/pocketwatch":[600,588],"_desk/radio":[600,900],"_desk/smartphone":[600,1096],"_desk/stamp":[600,548],"_desk/takeaway":[600,706],"_desk/teacup":[600,602],"_global/desk":[1024,1024],"_global/hero":[1672,942],"_global/paper":[1024,1024],"_global/warn":[600,200]};
